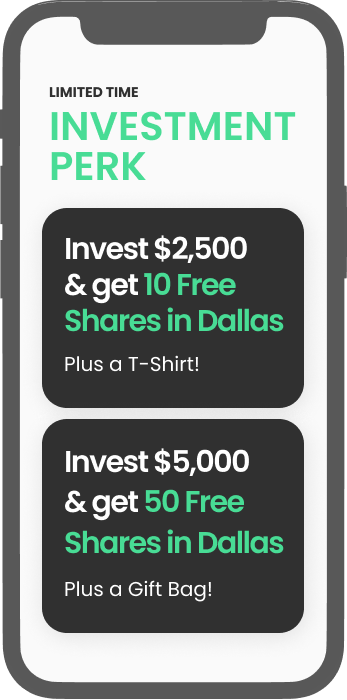
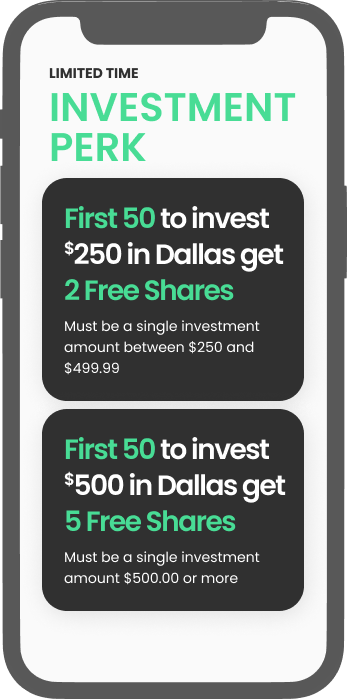
Update promo.

Changed region(s): [[0.1153, 0.09, 0.8934, 0.54], [0.1153, 0.54, 0.8934, 0.93], [0.1153, 0.54, 0.1441, 0.57]]

diff --git a/src/sections/PromoCTA.tsx b/src/sections/PromoCTA.tsx
@@ -23,17 +23,21 @@ export default function PromoCTA({ overline }: PromoCTAProps) {
         {overline && (
           <Overline style={{ marginBottom: '1rem' }}>{overline}</Overline>
         )}
-        <Heading style={{ marginBottom: 0 }}>Invest &</Heading>
+        <Heading style={{ marginBottom: 0 }}>Invest in Dallas and</Heading>
         <Heading style={{ color: '#48DC95', marginBottom: '2rem' }}>
-          Earn Free Shares in Dallas
+          Get Free Shares in Dallas
         </Heading>
+        <SecondaryText style={{ marginBottom: '4px' }}>
+          The first 50 users to invest $250 in Dallas get 2 free shares in
+          Dallas.
+        </SecondaryText>
         <SecondaryText style={{ marginBottom: '8px' }}>
-          Invest $2,500 and get 10 Free Shares in Dallas plus a special edition
-          “I Own Dallas” T-Shirt or $5,000 and get 50 Free Shares plus a
-          Cityfunds Gift Bag!
+          The first 50 users to invest $500 in Dallas get 5 free shares in
+          Dallas.
         </SecondaryText>
         <Caption style={{ marginBottom: '2rem' }}>
-          *Terms and conditions apply
+          Promotion active until 6/30/2023 or until capacity is reached for each
+          promotion. Terms and conditions apply
         </Caption>
         <EmailCapture
           btnText="Get Started"
@@ -90,7 +94,7 @@ export const SectionWrapper = styled.div`
 `;
 
 export const ContentWrapper = styled.div`
-  max-width: 600px;
+  max-width: 700px;
   margin-right: 84px;
 
   @media (max-width: ${({ theme }) => theme.breakpoints.sm}) {

diff --git a/src/components/PageLayout.tsx b/src/components/PageLayout.tsx
@@ -15,7 +15,7 @@ export default function PageLayout({ children, partnerImage }: BannerProps) {
 
   return (
     <div>
-      <AlertBanner primaryText="Invest $2,500 & get 10 Free Shares or $5,000 for 50 Free Shares" />
+      <AlertBanner primaryText="Cityfund of the Month: Dallas! Invest and get free shares" />
       {isMobile ? (
         <MobileNavBar />
       ) : (
